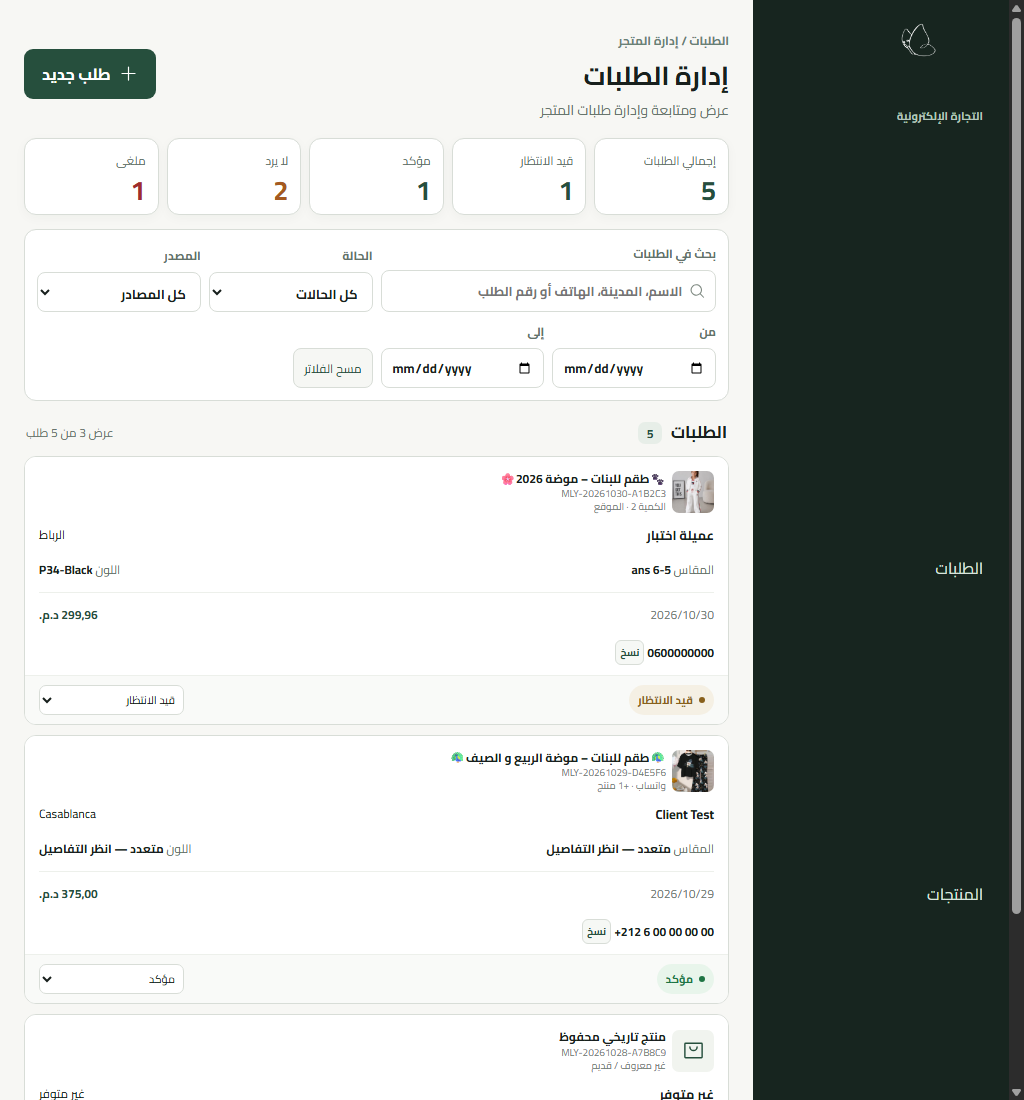
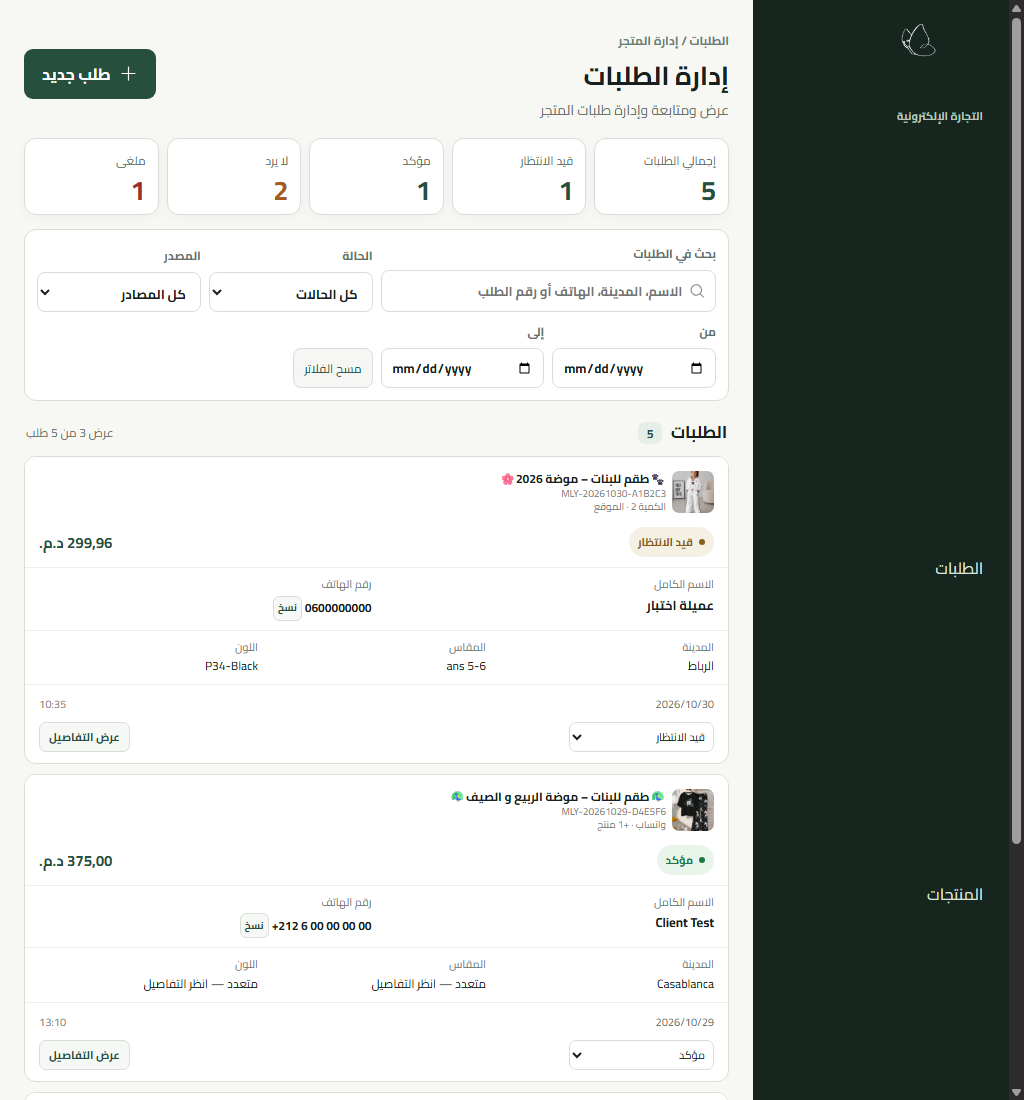
Refine owner order information hierarchy

diff --git a/src/admin/OrdersDashboard.jsx b/src/admin/OrdersDashboard.jsx
@@ -153,8 +153,14 @@ export function OrdersPanel({ data, reload, goTo, api }) {
       <button type="button" className="owner-order-clear" onClick={clearFilters}>مسح الفلاتر</button></div>
     <div className="owner-order-list-head"><strong>الطلبات <span>{filteredTotal.toLocaleString("ar-MA")}</span></strong><span>{loading ? "جارٍ التحديث…" : `عرض ${rows.length} من ${filteredTotal} طلب`}</span></div>
     {error && <div role="alert" className="owner-error">{error}</div>}
-    <div className="owner-orders-table" role="region" aria-label="قائمة الطلبات" tabIndex="0"><table><thead><tr><th>المنتج</th><th>الاسم الكامل</th><th>المدينة</th><th>رقم الهاتف</th><th>المقاس</th><th>اللون</th><th><button type="button" className="owner-order-sort" onClick={() => updateFilter("sort", filters.sort === "newest" ? "oldest" : "newest")} aria-label={`ترتيب حسب تاريخ الطلب: ${filters.sort === "newest" ? "الأحدث أولاً" : "الأقدم أولاً"}`}>تاريخ الطلب {filters.sort === "newest" ? <ArrowDown size={15} /> : <ArrowUp size={15} />}</button></th><th>المبلغ الإجمالي</th><th>حالة الطلب</th></tr></thead><tbody>{rows.map((order) => <tr key={order.id} tabIndex="0" aria-label={`تفاصيل الطلب ${order.order_number}`} onClick={() => openDetail(order.id)} onKeyDown={(event) => { if (event.target === event.currentTarget && ["Enter", " "].includes(event.key)) { event.preventDefault(); openDetail(order.id); } }}><td><OrderProductSummary order={order} /></td><td title={customerField(order, "name")}>{customerField(order, "name")}</td><td title={customerField(order, "city")}>{customerField(order, "city")}</td><td><div className="owner-order-phone" onClick={(event) => event.stopPropagation()}><b dir="ltr" title={customerField(order, "phone")}>{customerField(order, "phone")}</b><CopyPhoneButton phone={order.customer?.phone} /></div></td><td title={itemSelection(order, "size")}>{itemSelection(order, "size")}</td><td title={itemSelection(order, "color")}>{itemSelection(order, "color")}</td><td><time dateTime={order.created_at}>{formatDate(order.created_at, dateOnly)}<small>{formatDate(order.created_at, timeOnly)}</small></time></td><td className="owner-order-price">{money(order.total_mad)}</td><td><div className="owner-order-status-cell" onClick={(event) => event.stopPropagation()}><StatusBadge status={order.status} /><StatusSelect order={order} busy={busyId === order.id} onChange={changeStatus} /></div></td></tr>)}</tbody></table></div>
-    <div className="owner-order-mobile-list">{rows.map((order) => <article key={order.id} className="owner-order-mobile-card"><button type="button" className="owner-order-mobile-open" onClick={() => openDetail(order.id)} aria-label={`تفاصيل الطلب ${order.order_number}`}><OrderProductSummary order={order} /><span className="owner-order-mobile-customer"><strong>{customerField(order, "name")}</strong><span>{customerField(order, "city")}</span></span><span className="owner-order-mobile-meta"><span>المقاس <b>{itemSelection(order, "size")}</b></span><span>اللون <b>{itemSelection(order, "color")}</b></span></span><span className="owner-order-mobile-bottom"><time dateTime={order.created_at}>{formatDate(order.created_at, dateOnly)}</time><strong>{money(order.total_mad)}</strong></span></button><div className="owner-order-mobile-contact"><span className="owner-order-phone"><b dir="ltr">{customerField(order, "phone")}</b><CopyPhoneButton phone={order.customer?.phone} /></span></div><div className="owner-order-mobile-status"><StatusBadge status={order.status} /><StatusSelect order={order} busy={busyId === order.id} onChange={changeStatus} /></div></article>)}</div>
+    <div className="owner-orders-table" role="region" aria-label="قائمة الطلبات" tabIndex="0"><table><thead><tr><th>المنتج</th><th>الاسم الكامل</th><th>رقم الهاتف</th><th>المدينة</th><th>حالة الطلب</th><th>المبلغ الإجمالي</th><th>المقاس</th><th>اللون</th><th><button type="button" className="owner-order-sort" onClick={() => updateFilter("sort", filters.sort === "newest" ? "oldest" : "newest")} aria-label={`ترتيب حسب تاريخ الطلب: ${filters.sort === "newest" ? "الأحدث أولاً" : "الأقدم أولاً"}`}>تاريخ الطلب {filters.sort === "newest" ? <ArrowDown size={15} /> : <ArrowUp size={15} />}</button></th></tr></thead><tbody>{rows.map((order) => <tr key={order.id} tabIndex="0" aria-label={`تفاصيل الطلب ${order.order_number}`} onClick={() => openDetail(order.id)} onKeyDown={(event) => { if (event.target === event.currentTarget && ["Enter", " "].includes(event.key)) { event.preventDefault(); openDetail(order.id); } }}><td><OrderProductSummary order={order} /></td><td title={customerField(order, "name")}>{customerField(order, "name")}</td><td><div className="owner-order-phone" onClick={(event) => event.stopPropagation()}><b dir="ltr" title={customerField(order, "phone")}>{customerField(order, "phone")}</b><CopyPhoneButton phone={order.customer?.phone} /></div></td><td title={customerField(order, "city")}>{customerField(order, "city")}</td><td><div className="owner-order-status-cell" onClick={(event) => event.stopPropagation()}><StatusBadge status={order.status} /><StatusSelect order={order} busy={busyId === order.id} onChange={changeStatus} /></div></td><td className="owner-order-price">{money(order.total_mad)}</td><td title={itemSelection(order, "size")}>{itemSelection(order, "size")}</td><td title={itemSelection(order, "color")}>{itemSelection(order, "color")}</td><td><time dateTime={order.created_at}>{formatDate(order.created_at, dateOnly)}<small>{formatDate(order.created_at, timeOnly)}</small></time></td></tr>)}</tbody></table></div>
+    <div className="owner-order-mobile-list">{rows.map((order) => <article key={order.id} className="owner-order-mobile-card">
+      <button type="button" className="owner-order-mobile-open" onClick={() => openDetail(order.id)} aria-label={`تفاصيل الطلب ${order.order_number}`}><OrderProductSummary order={order} /></button>
+      <div className="owner-order-mobile-priority"><StatusBadge status={order.status} /><strong>{money(order.total_mad)}</strong></div>
+      <div className="owner-order-mobile-customer"><span className="owner-order-mobile-field"><small>الاسم الكامل</small><strong>{customerField(order, "name")}</strong></span><span className="owner-order-mobile-field"><small>رقم الهاتف</small><span className="owner-order-phone"><b dir="ltr" title={customerField(order, "phone")}>{customerField(order, "phone")}</b><CopyPhoneButton phone={order.customer?.phone} /></span></span></div>
+      <div className="owner-order-mobile-delivery"><span className="owner-order-mobile-field"><small>المدينة</small><span>{customerField(order, "city")}</span></span><span className="owner-order-mobile-field"><small>المقاس</small><span>{itemSelection(order, "size")}</span></span><span className="owner-order-mobile-field"><small>اللون</small><span>{itemSelection(order, "color")}</span></span></div>
+      <div className="owner-order-mobile-footer"><time dateTime={order.created_at}>{formatDate(order.created_at, dateOnly)}<small>{formatDate(order.created_at, timeOnly)}</small></time><div className="owner-order-mobile-actions"><StatusSelect order={order} busy={busyId === order.id} onChange={changeStatus} /><button type="button" className="owner-order-mobile-details" onClick={() => openDetail(order.id)}>عرض التفاصيل</button></div></div>
+    </article>)}</div>
     {!rows.length && !loading && <div className="owner-order-empty">لا توجد طلبات تطابق البحث أو الفلاتر الحالية.</div>}
     {loading && <p className="owner-order-loading" role="status">جارٍ تحميل الطلبات…</p>}
     {filteredTotal > pageSize && <nav className="owner-pagination" aria-label="صفحات الطلبات"><button type="button" disabled={page <= 1 || loading} onClick={() => setPage(page - 1)}>السابق</button><span>الصفحة {page} من {Math.ceil(filteredTotal / pageSize)}</span><button type="button" disabled={page >= Math.ceil(filteredTotal / pageSize) || loading} onClick={() => setPage(page + 1)}>التالي</button></nav>}

diff --git a/src/admin/admin.css b/src/admin/admin.css
@@ -263,7 +263,7 @@
 .owner-orders-table { overflow-x: auto; border: 1px solid var(--owner-line); border-radius: 13px; background: white; }
 .owner-orders-table table { width: 100%; border-collapse: collapse; table-layout: fixed; }
 .owner-orders-table th { height: 42px; padding: 8px 6px; background: #f7f9f6; color: #536259; font-size: 11px; font-weight: 700; text-align: right; white-space: nowrap; }
-.owner-orders-table th:nth-child(1) { width: 18%; }.owner-orders-table th:nth-child(2) { width: 11%; }.owner-orders-table th:nth-child(3) { width: 8%; }.owner-orders-table th:nth-child(4) { width: 14%; }.owner-orders-table th:nth-child(5) { width: 8%; }.owner-orders-table th:nth-child(6) { width: 8%; }.owner-orders-table th:nth-child(7) { width: 10%; }.owner-orders-table th:nth-child(8) { width: 10%; }.owner-orders-table th:nth-child(9) { width: 13%; }
+.owner-orders-table th:nth-child(1) { width: 18%; }.owner-orders-table th:nth-child(2) { width: 11%; }.owner-orders-table th:nth-child(3) { width: 14%; }.owner-orders-table th:nth-child(4) { width: 8%; }.owner-orders-table th:nth-child(5) { width: 13%; }.owner-orders-table th:nth-child(6) { width: 10%; }.owner-orders-table th:nth-child(7) { width: 8%; }.owner-orders-table th:nth-child(8) { width: 8%; }.owner-orders-table th:nth-child(9) { width: 10%; }
 .owner-orders-table td { padding: 9px 6px; border-top: 1px solid #edf0eb; color: var(--owner-ink); font-size: 12px; text-align: right; vertical-align: middle; overflow-wrap: anywhere; }
 .owner-orders-table tbody tr { cursor: pointer; transition: background .15s ease; }.owner-orders-table tbody tr:hover { background: #f8faf7; }.owner-orders-table tbody tr:focus-visible { outline: 3px solid #cf725f; outline-offset: -3px; }
 .owner-orders-table small { display: block; margin-top: 3px; color: #7b877e; font-size: 11px; line-height: 1.5; }
@@ -323,3 +323,19 @@
   .owner-order-mobile-list { grid-template-columns: repeat(2, minmax(0, 1fr)); }
 }
 @media (max-width: 800px) { .owner-app > main.owner-orders-main { padding: 16px; } }
+
+/* Final mobile information hierarchy: product, status/total, customer, delivery, then date/actions. */
+.owner-order-mobile-priority { display: flex; align-items: center; justify-content: space-between; gap: 10px; padding: 0 14px 10px; }
+.owner-order-mobile-priority > strong { color: var(--owner-green); font-size: 15px; font-weight: 700; white-space: nowrap; }
+.owner-order-mobile-customer { display: grid; grid-template-columns: repeat(2, minmax(0, 1fr)); gap: 10px; margin-top: 0; padding: 9px 14px; border-top: 1px solid #edf0eb; }
+.owner-order-mobile-field { display: grid; align-content: start; gap: 3px; min-width: 0; color: var(--owner-ink); font-size: 12px; line-height: 1.4; overflow-wrap: anywhere; }
+.owner-order-mobile-field small { color: #718075; font-size: 11px; }
+.owner-order-mobile-field strong { font-size: 13px; font-weight: 700; }
+.owner-order-mobile-delivery { display: grid; grid-template-columns: repeat(3, minmax(0, 1fr)); gap: 9px; padding: 9px 14px; border-top: 1px solid #edf0eb; }
+.owner-order-mobile-footer { display: grid; gap: 8px; padding: 9px 14px 11px; border-top: 1px solid #edf0eb; }
+.owner-order-mobile-footer time { display: flex; justify-content: space-between; gap: 8px; color: #64726a; font-size: 11px; }
+.owner-order-mobile-footer time small { color: #7b877e; font-size: 11px; }
+.owner-order-mobile-actions { display: flex; align-items: center; justify-content: space-between; gap: 8px; }
+.owner-order-mobile-actions .owner-order-status-select { width: min(145px, 48%); }
+.owner-app .owner-order-mobile-details { width: auto; min-height: 29px; padding: 4px 9px; border: 1px solid var(--owner-line); border-radius: 7px; background: #f6f8f5; color: var(--owner-green); font: inherit; font-size: 11px; font-weight: 700; cursor: pointer; }
+.owner-app .owner-order-mobile-details:hover { background: #e7efe8; }

diff --git a/docs/orders-compact-layout.md b/docs/orders-compact-layout.md
@@ -2,10 +2,11 @@
 
 ## Changes
 
-- The nine-column RTL table retains this order: product, full name, city, phone, size, color, order date, saved MAD total, status. Its old `min-width: 1650px` was removed. It now fills its container with percentage columns, smaller cell padding, 42px thumbnails, two-line product names, and a compact status control. Full product/option/phone text remains available through titles and the protected order-detail drawer; the phone copy action remains.
+- The nine-column RTL table now runs right-to-left as product, full name, phone, city, status, saved MAD total, size, color, order date. The same compact percentage columns, 42px thumbnails, two-line product names, and status control remain. Full product/option/phone text remains available through titles and the protected order-detail drawer; the phone copy action remains.
 - The existing owner CSS grid already uses `--owner-sidebar-width` (256px expanded, 78px collapsed). The Orders main area now has focused 24px padding and `min-width: 0`; its width follows that grid without a new sidebar state or reload.
 - The Orders page is a CSS inline-size container. When its content width is at most 1050px, it shows the existing full-information cards instead of forcing an unreadable table. Cards use two columns when the content width is at least 760px. The 390px layout remains one column. Heading, summary, filter, and list gaps were reduced without changing order operations.
 - No API, database, customer data, order status, or inventory code changed. Existing unrelated favicon edits remain untouched.
+- The card information order is now product identification → status and saved total → customer name and phone → city, size and color → date/time and actions. The product header and explicit bottom action both open the existing detail drawer. Each card contains exactly one status selector; the status badge is display-only.
 
 ## Browser measurements
 
@@ -21,13 +22,14 @@ Measured in signed-in headless Chrome on the local running app. `table scroll` i
 | 1024 | Collapsed (78px) | 898px | Two-column cards | Not applicable |
 | 768 | Mobile drawer | 736px | One-column cards | Not applicable |
 | 390 | Mobile drawer | 358px | One-column cards | Not applicable |
+| 360 | Mobile drawer | 328px | One-column cards | Not applicable |
 
 The 1280px expanded state deliberately uses cards: a 976px content area could not hold nine readable columns and a status selector without crowding. Collapsing the sidebar promotes it back to the full table automatically.
 
 ## Visual and functional checks
 
-These [eight screenshots](qa-orders/) were captured at the widths/states above using the real Orders component and styling with isolated sample records, not real customer details: `orders-compact-1440-expanded.png`, `orders-compact-1440-collapsed.png`, `orders-compact-1280-expanded.png`, `orders-compact-1280-collapsed.png`, `orders-compact-1024-expanded.png`, `orders-compact-1024-collapsed.png`, `orders-compact-768-expanded.png`, and `orders-compact-390-expanded.png`. They show correct RTL order, aligned headers, visible status/price, no clipped thumbnails, and readable cards. The 390px screenshot uses Chrome device emulation rather than a cropped 504px CLI viewport.
+These [nine screenshots](qa-orders/) were captured at the widths/states above using the real Orders component and styling with isolated sample records, not real customer details: `orders-compact-1440-expanded.png`, `orders-compact-1440-collapsed.png`, `orders-compact-1280-expanded.png`, `orders-compact-1280-collapsed.png`, `orders-compact-1024-expanded.png`, `orders-compact-1024-collapsed.png`, `orders-compact-768-expanded.png`, `orders-compact-390-expanded.png`, and `orders-compact-360-expanded.png`. They show the updated RTL column order, aligned headers, visible status/price, no clipped thumbnails, and the new card hierarchy. The 390px and 360px screenshots use Chrome device emulation rather than a cropped 504px CLI viewport.
 
-The signed-in local app was also measured before and after clicking the existing sidebar toggle, without reload. All nine table headers remained in the DOM, the page rendered with no runtime errors, and a mobile order-detail drawer opened and closed successfully. The server-side Orders search, filters, pagination, and status handling were not changed. No order mutation was performed in browser QA.
+The signed-in local app was also measured before and after clicking the existing sidebar toggle, without reload. All nine table headers appeared in the exact requested order; at 1440px and 1280px collapsed the table region's scroll width equaled its client width. The page rendered with no runtime errors, each card had one status selector, and a mobile order-detail drawer opened and closed successfully. The server-side Orders search, filters, pagination, and status handling were not changed. No order mutation was performed in browser QA.
 
 `npm run check`: passed catalog validation (34 products, 468 variants, 207 original images), all admin/storefront/Orders/Sites tests, and the production build. Vite still prints its non-failing large-chunk advisory. `npm run test:order-management:postgres`: passed both isolated PostgreSQL tests, including safe order handling and protected order details.

diff --git a/AGENTS.md b/AGENTS.md
@@ -18,4 +18,4 @@ Owner lifecycle preference: retiring an obsolete size/color combination must pre
 
 Owner navigation preference: Orders and Products are expandable Arabic RTL sections with two separate sibling controls per row. The icon/label navigates to the section's All page; the left chevron only toggles its child links. In icon-only desktop mode hide chevrons and child lists but keep the parent icons functional. Do not make Customers, Payments, or Invoices appear operational until real backend workflows exist.
 
-Owner Orders design preference: use a compact Arabic RTL management page in MELYNE's dark green and cream styling. The desktop table columns run right-to-left as product, customer full name, delivery city, customer phone, size, color, order date, saved MAD total, and status. At 1440px, fit all nine columns without horizontal scrolling in both sidebar states; redistribute width as the sidebar collapses. Switch to complete order cards when nine readable columns cannot fit, including tablet and mobile. Mobile prioritizes product, customer, city, total, and status while keeping other details accessible. Keep status choices in the fixed Pending, No Response, Confirmed, Preparing, Shipped, Delivered, Cancelled order. Show full historical order details in a drawer, use real database counts and filters, and never add a delete-order or fake delivery action.
+Owner Orders design preference: use a compact Arabic RTL management page in MELYNE's dark green and cream styling. The desktop table columns run right-to-left as product, customer full name, customer phone, delivery city, status, saved MAD total, size, color, and order date. At 1440px, fit all nine columns without horizontal scrolling in both sidebar states; redistribute width as the sidebar collapses. Switch to complete order cards when nine readable columns cannot fit, including tablet and mobile. Mobile card hierarchy is product identification, then status and total, then customer name and phone, then city and variants, then date and actions. Keep status choices in the fixed Pending, No Response, Confirmed, Preparing, Shipped, Delivered, Cancelled order. Show full historical order details in a drawer, use real database counts and filters, and never add a delete-order or fake delivery action.
